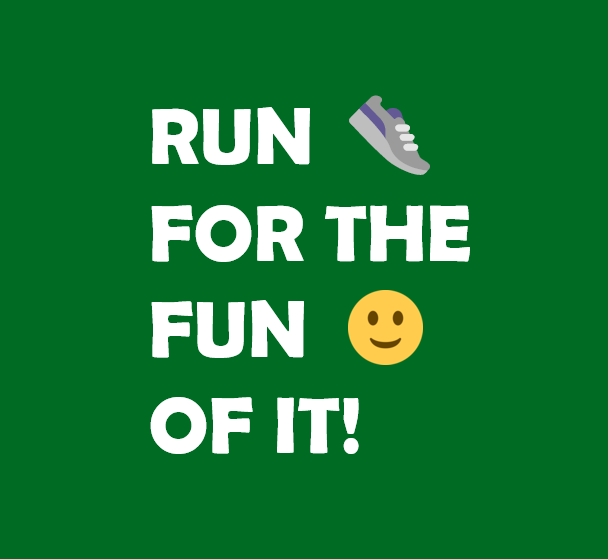
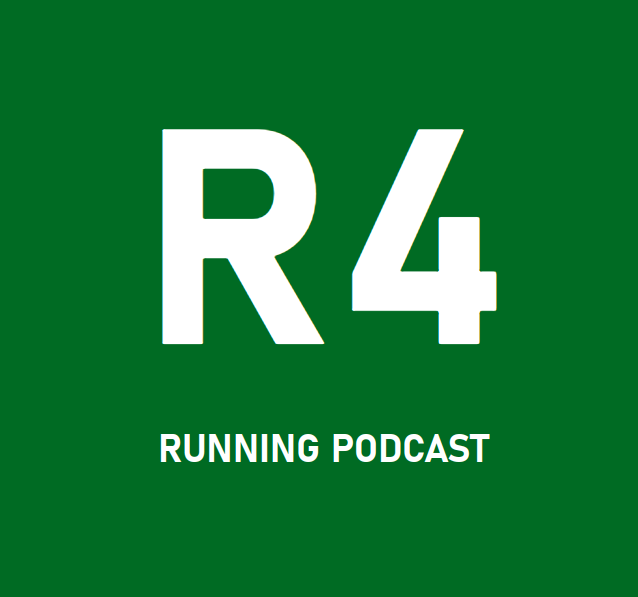
:sparkles: rebrand podcast

Changed region(s): [[0.25, 0.1825, 0.5312, 0.6386], [0.5312, 0.1521, 0.7812, 0.6691], [0.25, 0.6995, 0.7812, 0.8211]]

diff --git a/_posts/2023-03-20-Episode-3.md b/_posts/2023-03-20-Episode-3.md
@@ -31,7 +31,7 @@ excerpt_separator: <!--more-->
 * [2023 Chilly Half Marathon](https://raceroster.com/events/2023/56685/2023-chilly-half-marathon)
 * [2023 Chilly Half Marathon Results](https://results.raceroster.com/v2/en-US/results/t6eecgh7bs7ayp3y/results?subEvent=159834)
 * [2023 Chilly Half BlackToe Photos](https://miproductions.pixieset.com/chillyhalfmarathon/)
-* [RUN FOR THE FUN OF IT! Episode 2: Chilly Half Post-Race Post-Beer Interviews!](https://runforthefunofit.com/2023/03/06/Episode-2.html)
+* [The R4 Running Podcast Episode 2: Chilly Half Post-Race Post-Beer Interviews!](https://runforthefunofit.com/2023/03/06/Episode-2.html)
 * [Levetto Italian Pasta Restaurant](https://www.levetto.com/)
 
 ### Intro Song Info

diff --git a/_posts/2023-09-22-Episode-13.md b/_posts/2023-09-22-Episode-13.md
@@ -33,7 +33,7 @@ excerpt_separator: <!--more-->
 * [SuperPower 5k Results](https://www.sportstats.ca/display-results.xhtml?raceid=129474)
 * [Toronto Brickworks](https://www.evergreen.ca/evergreen-brick-works/)
 * [CityStrides.com](https://citystrides.com/)
-* [RUN FOR THE FUN OF IT! Episode 10: Roaming Rome & CityStrides.com](https://runforthefunofit.com/2023/06/12/Episode-10.html)
+* [The R4 Running Podcast Episode 10: Roaming Rome & CityStrides.com](https://runforthefunofit.com/2023/06/12/Episode-10.html)
 * [Berlin 2023 Marathon](https://www.bmw-berlin-marathon.com/en/)
 * [Chicago 2023 Marathon](https://www.chicagomarathon.com/)
 * [Toronto TCS 2023 Marathon](https://www.torontowaterfrontmarathon.com/)

diff --git a/pages/about.md b/pages/about.md
@@ -5,7 +5,7 @@ permalink: /about/
 feature-img: "assets/img/pexels/funrun_header.png"
 ---
 
-**RUN FOR THE FUN OF IT!** is an inclusive running podcast geared towards runners and non-runners of all levels. Both of your cohosts live in Toronto, Canada and have been recreational/serious runners for over a decade.
+**The R4 Running Podcast** is an inclusive running podcast geared towards runners and non-runners of all levels. Both of your cohosts live in Toronto, Canada and have been recreational/serious runners for over a decade.
 
 Your two co-hosts are:
 
